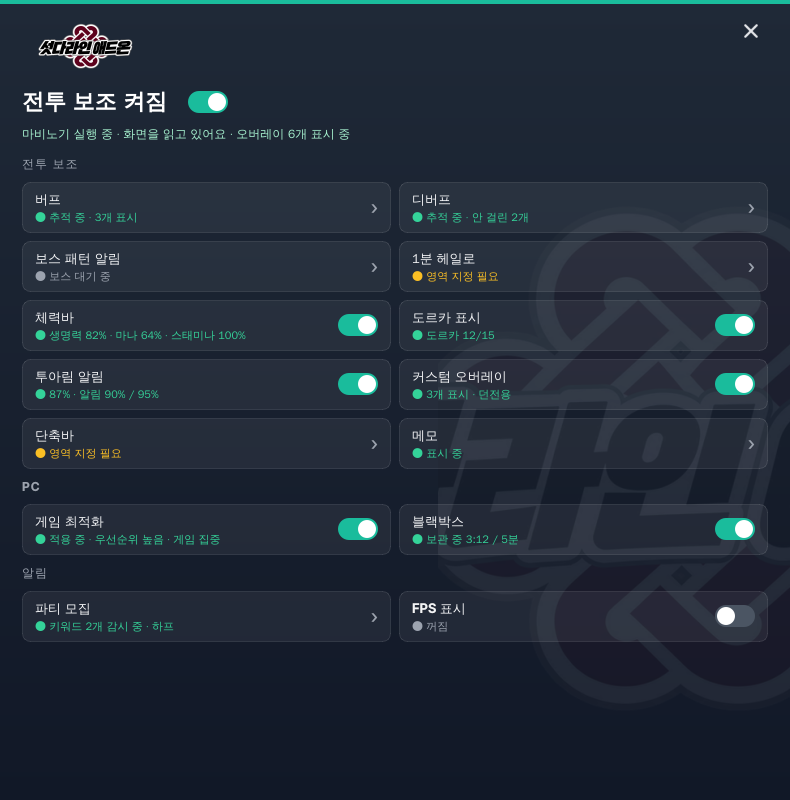
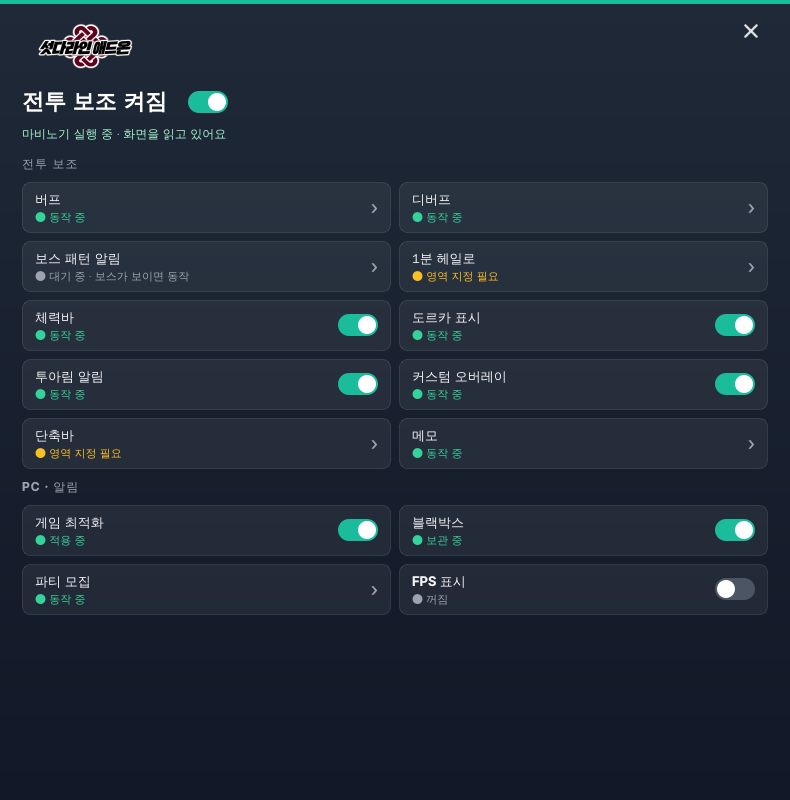
TODO: 홈 시안 정리(배경 없음·상태 4가지·같은 크기 2열), 기준 이미지 갱신
Claude-Session: https://claude.ai/code/session_012tR8ejYmFbfiysA27exRqd

diff --git a/docs/TODO.md b/docs/TODO.md
@@ -84,7 +84,8 @@
   켜고 끌 게 있는 기능은 홈 스위치, 없는 기능은 눌러서 개별 화면 이동.
   최적화 스위치 = **C안(사용자 결정)** '최적화 사용': 켜면 자동 적용(13.10) 켜기 + 게임 실행 중이면 바로 적용, 끄면 자동 적용 끄기 + 지금 적용분 바로 원복.
   상태 줄 `게임 대기 / 적용 중 · … / 보류`. 패스트핑(네트워크)은 홈 스위치로 바꾸지 않음(13.10 원칙, 최적화 탭에서 한 번 적용). 근거: 홈은 on/off라 눌러 둔 대로 계속 동작할 것처럼 보임.
-  미정(사용자 고민 중): 배경 문양 다듬기. 이것만 정해지면 홈 명세 작성.
+  이후 결정(2026-10-29): 배경 이미지 없음(남색 그라데이션+민트 선+로고), 상태는 판독 값 없이 4가지만(동작 중·대기 중·영역 지정 필요·꺼짐 — 오독 노출 방지),
+  버프·디버프 확대는 보여 줄 내용이 없어 의미 없음 → 같은 크기 2열, 첫 줄 위치로만 강조(결국 1차 배치). 기준 이미지 갱신. 확정되면 홈 명세 작성.
   카드 내용은 0.27.0 화면별 한 줄 요약을 재사용(새 판독 없음, 0.7초 상태 타이머 공유). 탐색 구조 명세의 '메인 상위 탭 추가 안 함' 결정을 바꾸는 일이라 진행 시 함께 갱신. 0.27.0 이후.
 - [ ] **커서 표시 (아이디어, 2026-10-28)** — 마우스 하이라이트(원)/꼬리(잔상)/둘 다 선택, 색·크기·꼬리 길이. 위치는 전투 보조 › 화면 배치 묶음(상위 탭 추가 안 함),
   일시정지·위치 잠금 규칙은 다른 오버레이와 같게. 커서는 `GetCursorPos`로 읽기만(`system/`). 꼬리는 화면 전체 투명 창·초당 60회 갱신이라 CPU 목표(1~2%) 측정 필요, 기본은 하이라이트.
